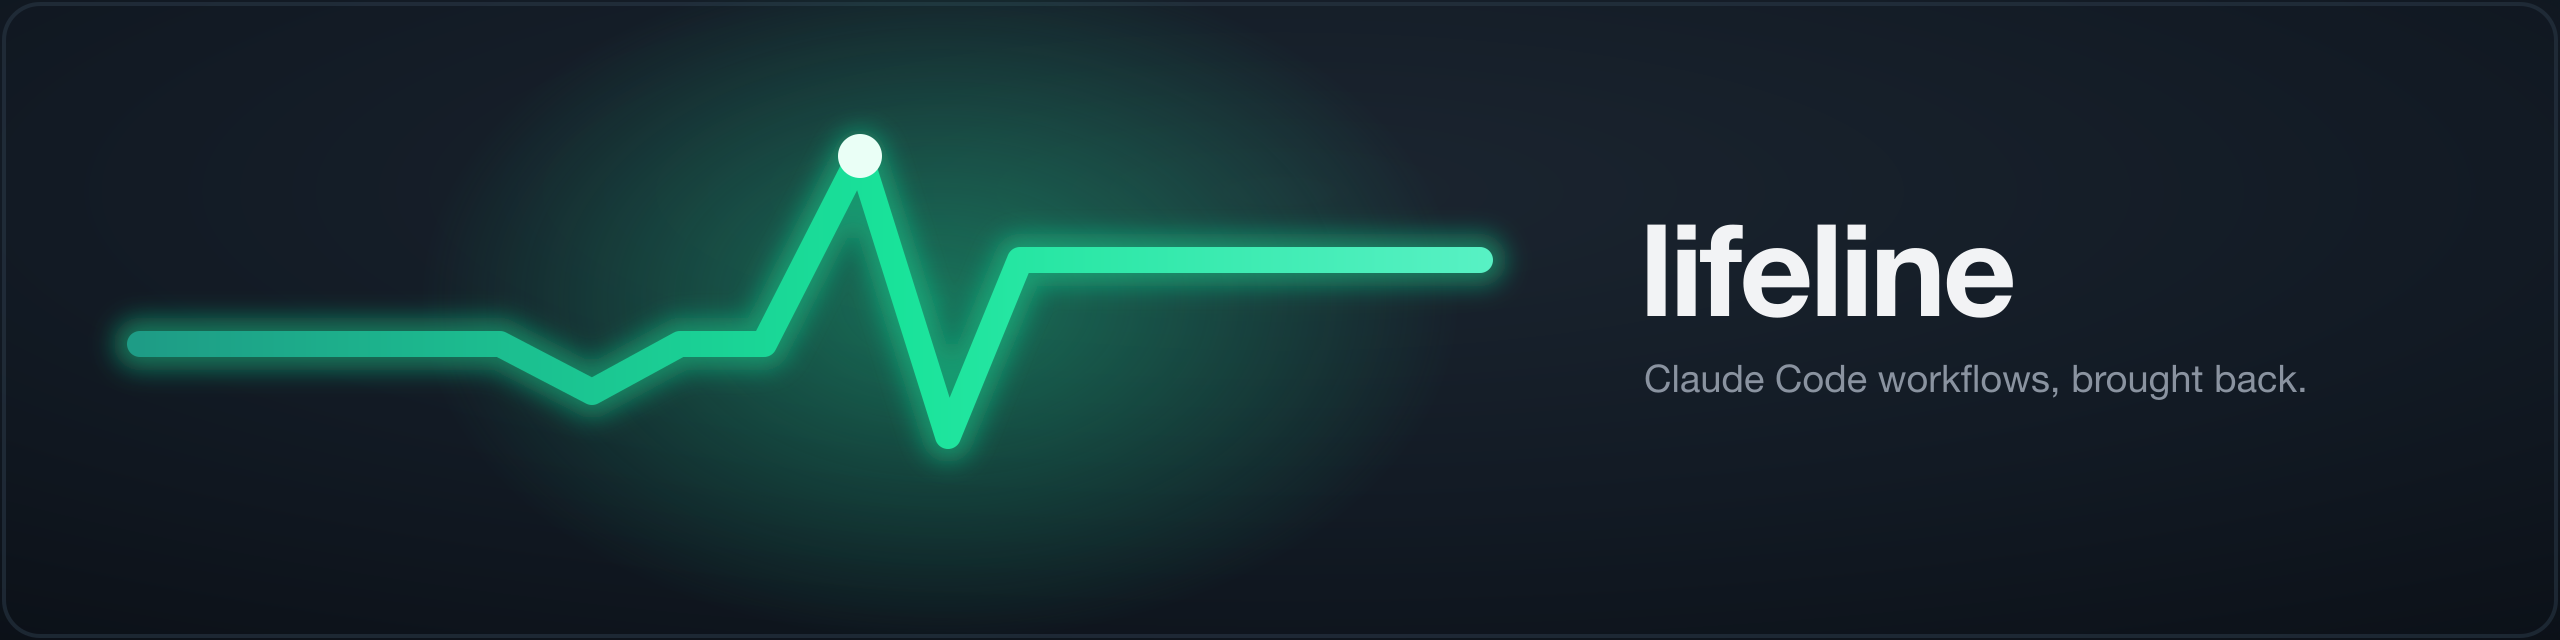
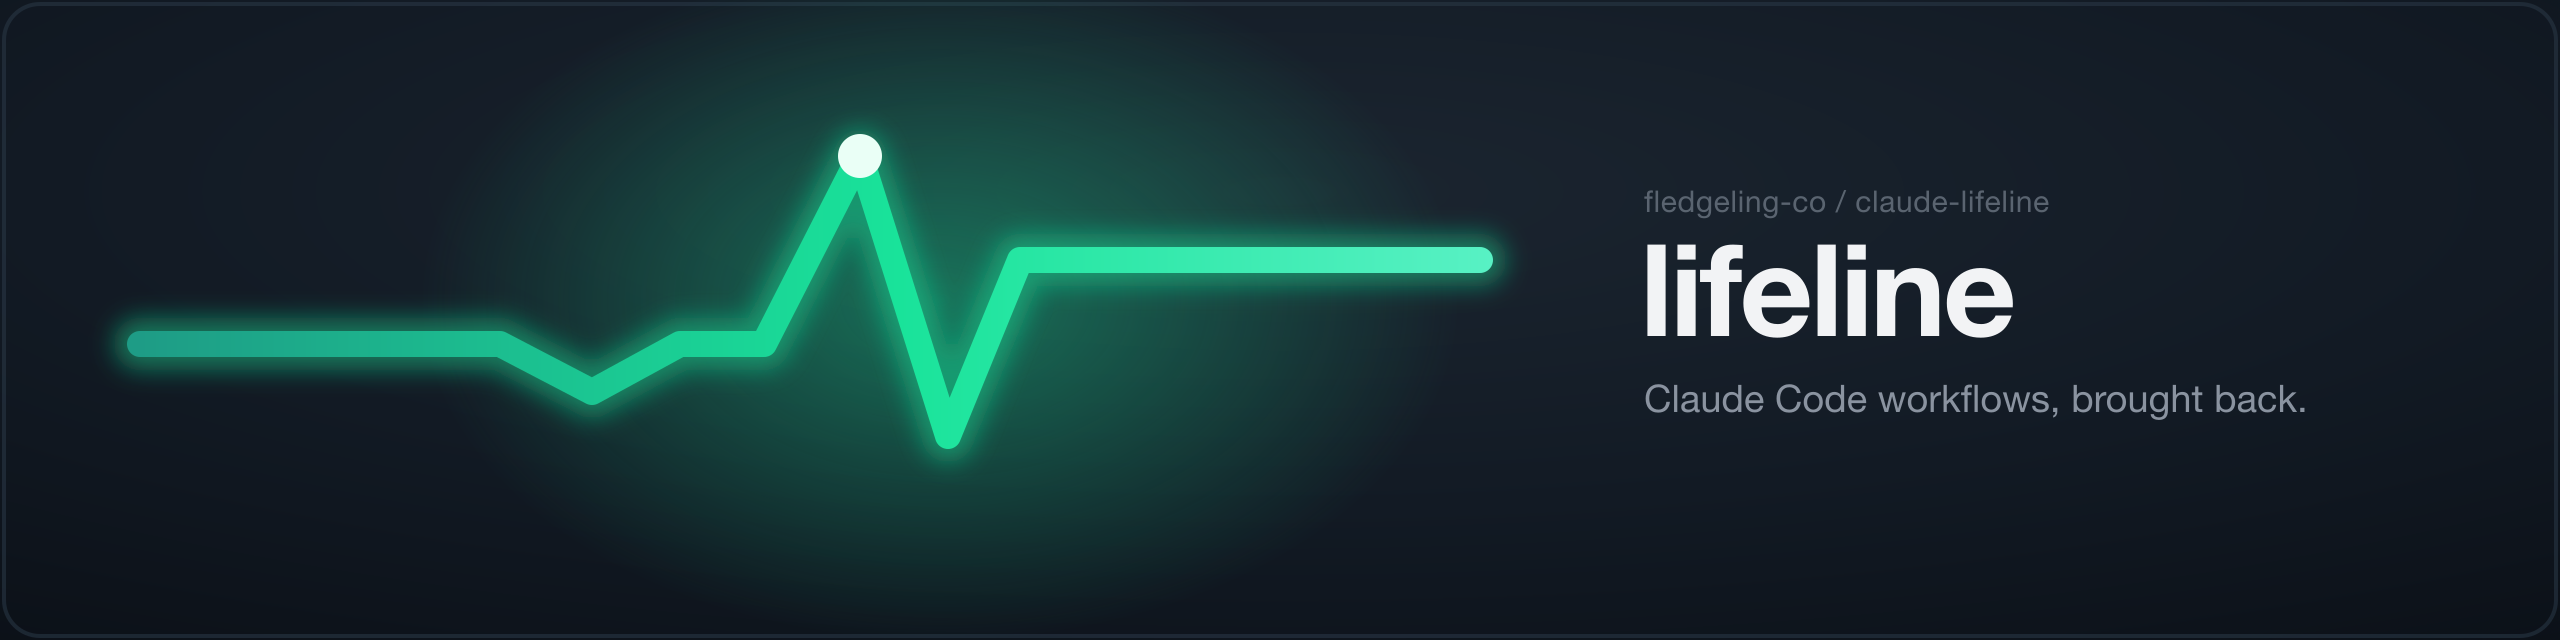
rename project to claude-lifeline (fledgeling-co); app stays 'lifeline'
Repo/package/URLs move to fledgeling-co/claude-lifeline; the command, ~/.lifeline, and
the product name in prose stay lifeline. Banner gains the repo kicker.

Changed region(s): [[0.625, 0.2812, 0.8125, 0.5312], [0.625, 0.5625, 0.9062, 0.6562]]

diff --git a/README.md b/README.md
@@ -2,7 +2,7 @@
 
 ![lifeline: Claude Code workflows, brought back](design/banner.png)
 
-[![CI](https://github.com/lprhodes/lifeline/actions/workflows/ci.yml/badge.svg)](https://github.com/lprhodes/lifeline/actions/workflows/ci.yml)
+[![CI](https://github.com/fledgeling-co/claude-lifeline/actions/workflows/ci.yml/badge.svg)](https://github.com/fledgeling-co/claude-lifeline/actions/workflows/ci.yml)
 ![macOS](https://img.shields.io/badge/macOS-one--command_install-2ea44f)
 ![licence](https://img.shields.io/badge/licence-MIT-blue)
 
@@ -11,7 +11,7 @@
 </div>
 
 ```bash
-curl -fsSL https://raw.githubusercontent.com/lprhodes/lifeline/main/install.sh | bash
+curl -fsSL https://raw.githubusercontent.com/fledgeling-co/claude-lifeline/main/install.sh | bash
 ```
 
 After that your command is still `claude`. There's nothing to remember.
@@ -114,7 +114,7 @@ On top of that, an automated check runs every day against each new Claude Code r
 macOS, one line:
 
 ```bash
-curl -fsSL https://raw.githubusercontent.com/lprhodes/lifeline/main/install.sh | bash
+curl -fsSL https://raw.githubusercontent.com/fledgeling-co/claude-lifeline/main/install.sh | bash
 ```
 
 That sets everything up, points Claude Code through lifeline, and gets out of your way. Your command stays `claude`.
@@ -129,7 +129,7 @@ lifeline doctor    # a quick health check of lifeline itself
 **Remove it cleanly** (restores everything to exactly how it was, one line, nothing to set up first):
 
 ```bash
-curl -fsSL https://raw.githubusercontent.com/lprhodes/lifeline/main/uninstall.sh | bash
+curl -fsSL https://raw.githubusercontent.com/fledgeling-co/claude-lifeline/main/uninstall.sh | bash
 ```
 
 > [!WARNING]
